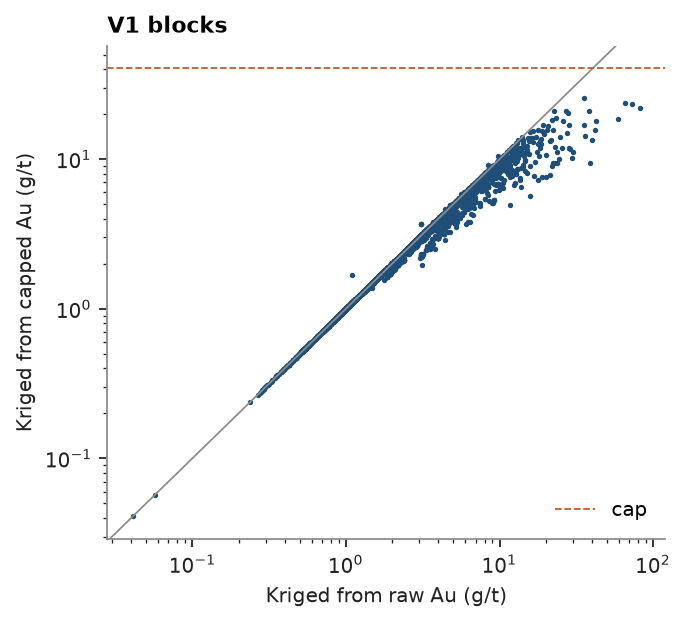
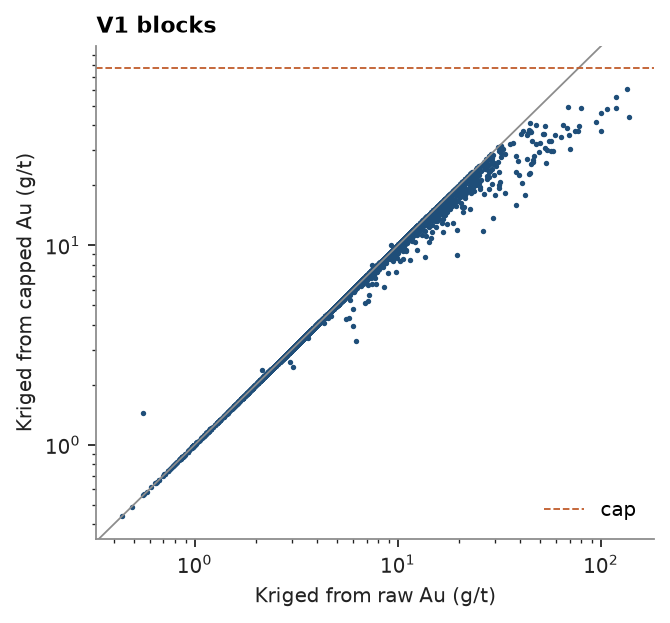
docs(examples): capping topic on the quartz veins of topic 8

diff --git a/examples/topics/69-capping-transform/example_69.py b/examples/topics/69-capping-transform/example_69.py
@@ -20,20 +20,19 @@ import numpy as np
 from common import ACCENT, GRAY, HIGHLIGHT, save
 
 # %% [markdown]
-# Four steep gold veins, drilled by diamond holes and sampled by channels in the drives. Assays are composited to
-# 1 m inside each vein, and cell declustering evens out the channels, which crowd the levels.
+# The quartz-vein composites of [topic 8](../08-top-cuts/README.md): gold in four veins, V1 to V4, sampled by
+# diamond holes and underground channels, composited to 1 m and declustered in 20 m cells.
 
 # %%
 data = cs.datasets.vein_gold_grade_control()
 intervals = cs.merge_intervals(data["assays"], data["lithology"])
-drillholes = cs.Drillholes(data["collars"], data["surveys"], intervals)
-composites = drillholes.composite(1.0, ["AU_GPT"], domain="VEIN")
-composites = composites.filter(np.asarray(composites["VEIN"]) != "")
-composites = composites.filter(~np.isnan(composites["AU_GPT"]))
-weights = cs.cell_declustering(composites, "AU_GPT", cell_size=20.0).weights
-composites = composites.with_column("w", weights)
-veins = sorted(set(composites["VEIN"]))
-print(f"{len(composites)} composites in {len(veins)} veins")
+holes = cs.Drillholes(data["collars"], data["surveys"], intervals)
+composites = holes.composite(1.0, ["AU_GPT"], domain="LITH", categories=["VEIN"])
+quartz = composites.filter((composites["LITH"] == "QV") & ~np.isnan(composites["AU_GPT"]))
+weights = cs.cell_declustering(quartz, "AU_GPT", cell_size=20.0).weights
+quartz = quartz.with_column("w", weights)
+veins = sorted(set(quartz["VEIN"]))
+print(f"{len(quartz)} composites in {len(veins)} veins")
 
 # %% [markdown]
 # ## One cap per vein
@@ -49,33 +48,34 @@ rules = {
     "CV 1.5": cs.Capping(cv=1.5),
 }
 for rule in rules.values():
-    rule.fit("AU_GPT", domain_column="VEIN", weights="w", data=composites)
+    rule.fit("AU_GPT", domain_column="VEIN", weights="w", data=quartz)
 print(f"{'vein':<6}" + "".join(f"{name:>11}{'metal (%)':>11}" for name in rules))
 for vein in veins:
     row = "".join(f"{r.caps_[vein]:>11.1f}{100 * r.metal_removed_[vein]:>11.2f}" for r in rules.values())
     print(f"{vein:<6}{row}")
 
 # %% [markdown]
-# The rules disagree most where the tail is longest. V1 and V2, sampled by thousands of channels with a lognormal
-# tail up to 500 g/t, lose 12 to 15 % of their metal at the P99; holding the loss to 5 % puts their caps near
-# 95 g/t. V4's P99 cuts a single composite and removes almost nothing. A CV target caps harder than either:
-# it pulls every cap down to 11 to 13 g/t, and V4, whose grades are spread rather than skewed, loses half its metal.
+# The rules disagree most where the tail is longest. V1 and V2 lose 10 and 14 % of their metal at the P99;
+# holding the loss to 5 % lifts their caps to 144 and 514 g/t, the latter just under V2's extreme channels. In the
+# small veins the P99 barely cuts: it is the maximum of V3. A CV of 1.5 caps V1 and V2 near 50 g/t and costs them
+# 15 to 18 % of their metal.
 #
-# ## The same numbers as the report
+# ## The same numbers as topic 8
 #
-# `capping_report`, used in [topic 13](../13-correlations/README.md) to compare statistics before and after a
-# given cap, reads the fitted caps directly. Its fraction of metal removed, `1 - mean_capped / mean`, is the
-# `metal_removed_` of the transform.
+# Topic 8 read each vein's declustered P99 off `describe_by` and passed it to `capping_report`. The quantile rule
+# fits the same caps, and its `metal_removed_` is the report's `1 - mean_capped / mean`.
 
 # %%
 capping = rules["P99"]
-report = cs.capping_report("AU_GPT", capping.caps_, domain_column="VEIN", weights="w", data=composites)
-columns = ["domain", "cap", "n_capped", "mean", "mean_capped", "cv", "cv_capped"]
-print(f"{'vein':<6}{'cap':>7}{'cut':>5}{'mean':>7}{'capped':>8}{'CV':>6}{'capped':>8}{'metal (%)':>11}")
-for name, c, n, mean, capped, cv, cv_capped in zip(*(report[k] for k in columns), strict=True):
+stats = cs.describe_by("AU_GPT", "VEIN", weights="w", quantiles=[0.99], data=quartz)
+top = dict(zip(stats["category"][:-1], stats["P99"][:-1], strict=True))
+report = cs.capping_report("AU_GPT", top, domain_column="VEIN", weights="w", data=quartz)
+removed = 1 - report["mean_capped"] / report["mean"]
+print(f"{'vein':<5}{'P99':>8}{'fitted cap':>12}{'report (%)':>12}{'fitted (%)':>12}")
+for k, vein in enumerate(report["domain"][:-1]):
     print(
-        f"{name:<6}{'' if np.isnan(c) else f'{c:.1f}':>7}{n:>5.0f}{mean:>7.2f}{capped:>8.2f}{cv:>6.2f}"
-        f"{cv_capped:>8.2f}{100 * (1 - capped / mean):>11.2f}"
+        f"{vein:<5}{top[vein]:>8.2f}{capping.caps_[vein]:>12.2f}"
+        f"{100 * removed[k]:>12.2f}{100 * capping.metal_removed_[vein]:>12.2f}"
     )
 
 # %% [markdown]
@@ -84,9 +84,9 @@ for name, c, n, mean, capped, cv, cv_capped in zip(*(report[k] for k in columns)
 # %%
 fig, axes = plt.subplots(1, len(veins), figsize=(11, 3.4), layout="constrained", sharey=True)
 for ax, vein in zip(axes, veins, strict=True):
-    keep = np.asarray(composites["VEIN"]) == vein
+    keep = quartz["VEIN"] == vein
     cs.plot.probability(
-        composites["AU_GPT"][keep],
+        quartz["AU_GPT"][keep],
         weights=weights[keep],
         log=True,
         cap=capping.caps_[vein],
@@ -105,11 +105,12 @@ save(fig, "probability")
 #
 # The capped grades feed the estimate as any other column. Blocks of 5 m inside the V1 solid are kriged from the
 # raw and from the capped composites of V1 with one variogram and search. The extreme channels no longer spread
-# their grade over their neighborhood: the blocks lose about as much metal as the declustered composites, 11 %,
-# almost all of it from blocks above 3 g/t, while the low-grade blocks stay on the diagonal.
+# their grade over their neighborhood: the richest blocks drop below the diagonal while the low-grade ones stay on
+# it. The blocks lose 6 % of their mean grade, against 10 % for the declustered composites: most blocks are
+# estimated from samples below the cap, which capping leaves unchanged.
 
 # %%
-v1 = composites.filter(np.asarray(composites["VEIN"]) == "V1")
+v1 = quartz.filter(quartz["VEIN"] == "V1")
 v1 = v1.with_column("AU_CAPPED", capping.transform("AU_GPT", domain_column="VEIN", data=v1))
 blocks = cs.BlockModel.from_extents(data["vein_V1"], size=(5.0, 5.0, 5.0))
 targets = blocks.centroids[data["vein_V1"].contains(blocks.centroids)]
@@ -139,13 +140,14 @@ save(fig, "kriged")
 # ## In a pipeline
 #
 # `Capping` has `fit`, `transform` and `fit_transform` like `NormalScore`, so the two chain: cap, then score, the
-# usual preparation for a Gaussian simulation. Fitted once, both apply to new samples: 50 and 500 g/t are both
-# capped, so they get the same score. The fitted caps round-trip through JSON and pickle.
+# usual preparation for a Gaussian simulation. Fitted once, both apply to new samples: 500 g/t is capped to
+# 77 g/t before scoring, so its score is that of the cap. The fitted caps round-trip through JSON and pickle.
 
 # %%
-capped = capping.fit_transform("AU_GPT", domain_column="VEIN", weights="w", data=v1)
+pipeline = cs.Capping(quantile=0.99)
+capped = pipeline.fit_transform("AU_GPT", domain_column="VEIN", weights="w", data=v1)
 scores = cs.NormalScore().fit(capped, weights=v1["w"])
 new = np.array([0.5, 5.0, 50.0, 500.0])
-print(scores.transform(capping.transform(new, domains=["V1"] * 4)).round(3))
-restored = cs.Capping.from_json(capping.to_json())
-print(restored.caps_ == capping.caps_)
+print(scores.transform(pipeline.transform(new, domains=["V1"] * 4)).round(3))
+restored = cs.Capping.from_json(pipeline.to_json())
+print(restored.caps_ == pipeline.caps_)

diff --git a/examples/topics/69-capping-transform/README.md b/examples/topics/69-capping-transform/README.md
@@ -15,28 +15,27 @@ from common import ACCENT, GRAY, HIGHLIGHT, save
 
 </details>
 
-Four steep gold veins, drilled by diamond holes and sampled by channels in the drives. Assays are composited to
-1 m inside each vein, and cell declustering evens out the channels, which crowd the levels.
+The quartz-vein composites of [topic 8](../08-top-cuts/README.md): gold in four veins, V1 to V4, sampled by
+diamond holes and underground channels, composited to 1 m and declustered in 20 m cells.
 
 <details><summary>Python</summary>
 
 ```python
 data = cs.datasets.vein_gold_grade_control()
 intervals = cs.merge_intervals(data["assays"], data["lithology"])
-drillholes = cs.Drillholes(data["collars"], data["surveys"], intervals)
-composites = drillholes.composite(1.0, ["AU_GPT"], domain="VEIN")
-composites = composites.filter(np.asarray(composites["VEIN"]) != "")
-composites = composites.filter(~np.isnan(composites["AU_GPT"]))
-weights = cs.cell_declustering(composites, "AU_GPT", cell_size=20.0).weights
-composites = composites.with_column("w", weights)
-veins = sorted(set(composites["VEIN"]))
-print(f"{len(composites)} composites in {len(veins)} veins")
+holes = cs.Drillholes(data["collars"], data["surveys"], intervals)
+composites = holes.composite(1.0, ["AU_GPT"], domain="LITH", categories=["VEIN"])
+quartz = composites.filter((composites["LITH"] == "QV") & ~np.isnan(composites["AU_GPT"]))
+weights = cs.cell_declustering(quartz, "AU_GPT", cell_size=20.0).weights
+quartz = quartz.with_column("w", weights)
+veins = sorted(set(quartz["VEIN"]))
+print(f"{len(quartz)} composites in {len(veins)} veins")
 ```
 
 </details>
 
 ```text
-13392 composites in 4 veins
+5826 composites in 4 veins
 ```
 
 ## One cap per vein
@@ -54,7 +53,7 @@ rules = {
     "CV 1.5": cs.Capping(cv=1.5),
 }
 for rule in rules.values():
-    rule.fit("AU_GPT", domain_column="VEIN", weights="w", data=composites)
+    rule.fit("AU_GPT", domain_column="VEIN", weights="w", data=quartz)
 print(f"{'vein':<6}" + "".join(f"{name:>11}{'metal (%)':>11}" for name in rules))
 for vein in veins:
     row = "".join(f"{r.caps_[vein]:>11.1f}{100 * r.metal_removed_[vein]:>11.2f}" for r in rules.values())
@@ -65,46 +64,46 @@ for vein in veins:
 
 ```text
 vein          P99  metal (%)  5 % metal  metal (%)     CV 1.5  metal (%)
-V1           40.4      12.03       91.9       5.00       13.4      31.14
-V2           25.9      14.72       97.0       5.00       11.7      26.29
-V3           17.1       8.41       31.5       5.00       11.8      12.97
-V4           63.9       0.07       47.2       5.00       10.9      52.06
+V1           77.2      10.11      144.1       5.00       49.1      15.36
+V2           71.0      14.46      513.7       5.00       51.1      17.59
+V3           67.5       0.00       50.3       5.00       56.5       3.20
+V4          186.8       0.37      107.3       5.00       96.7       8.08
 ```
 
-The rules disagree most where the tail is longest. V1 and V2, sampled by thousands of channels with a lognormal
-tail up to 500 g/t, lose 12 to 15 % of their metal at the P99; holding the loss to 5 % puts their caps near
-95 g/t. V4's P99 cuts a single composite and removes almost nothing. A CV target caps harder than either:
-it pulls every cap down to 11 to 13 g/t, and V4, whose grades are spread rather than skewed, loses half its metal.
+The rules disagree most where the tail is longest. V1 and V2 lose 10 and 14 % of their metal at the P99;
+holding the loss to 5 % lifts their caps to 144 and 514 g/t, the latter just under V2's extreme channels. In the
+small veins the P99 barely cuts: it is the maximum of V3. A CV of 1.5 caps V1 and V2 near 50 g/t and costs them
+15 to 18 % of their metal.
 
-## The same numbers as the report
+## The same numbers as topic 8
 
-`capping_report`, used in [topic 13](../13-correlations/README.md) to compare statistics before and after a
-given cap, reads the fitted caps directly. Its fraction of metal removed, `1 - mean_capped / mean`, is the
-`metal_removed_` of the transform.
+Topic 8 read each vein's declustered P99 off `describe_by` and passed it to `capping_report`. The quantile rule
+fits the same caps, and its `metal_removed_` is the report's `1 - mean_capped / mean`.
 
 <details><summary>Python</summary>
 
 ```python
 capping = rules["P99"]
-report = cs.capping_report("AU_GPT", capping.caps_, domain_column="VEIN", weights="w", data=composites)
-columns = ["domain", "cap", "n_capped", "mean", "mean_capped", "cv", "cv_capped"]
-print(f"{'vein':<6}{'cap':>7}{'cut':>5}{'mean':>7}{'capped':>8}{'CV':>6}{'capped':>8}{'metal (%)':>11}")
-for name, c, n, mean, capped, cv, cv_capped in zip(*(report[k] for k in columns), strict=True):
+stats = cs.describe_by("AU_GPT", "VEIN", weights="w", quantiles=[0.99], data=quartz)
+top = dict(zip(stats["category"][:-1], stats["P99"][:-1], strict=True))
+report = cs.capping_report("AU_GPT", top, domain_column="VEIN", weights="w", data=quartz)
+removed = 1 - report["mean_capped"] / report["mean"]
+print(f"{'vein':<5}{'P99':>8}{'fitted cap':>12}{'report (%)':>12}{'fitted (%)':>12}")
+for k, vein in enumerate(report["domain"][:-1]):
     print(
-        f"{name:<6}{'' if np.isnan(c) else f'{c:.1f}':>7}{n:>5.0f}{mean:>7.2f}{capped:>8.2f}{cv:>6.2f}"
-        f"{cv_capped:>8.2f}{100 * (1 - capped / mean):>11.2f}"
+        f"{vein:<5}{top[vein]:>8.2f}{capping.caps_[vein]:>12.2f}"
+        f"{100 * removed[k]:>12.2f}{100 * capping.metal_removed_[vein]:>12.2f}"
     )
 ```
 
 </details>
 
 ```text
-vein      cap  cut   mean  capped    CV  capped  metal (%)
-V1       40.4  119   3.44    3.03  3.31    2.08      12.03
-V2       25.9   68   2.48    2.12  3.93    1.91      14.72
-V3       17.1    4   1.77    1.62  2.42    1.68       8.41
-V4       63.9    1   5.36    5.36  2.22    2.22       0.07
-all            192   2.99    2.63  3.47    2.13      12.08
+vein      P99  fitted cap  report (%)  fitted (%)
+V1      77.18       77.18       10.11       10.11
+V2      70.97       70.97       14.46       14.46
+V3      67.53       67.53        0.00        0.00
+V4     186.79      186.79        0.37        0.37
 ```
 
 On a log-probability plot the dashed caps cut the last percent of each vein's tail.
@@ -114,9 +113,9 @@ On a log-probability plot the dashed caps cut the last percent of each vein's ta
 ```python
 fig, axes = plt.subplots(1, len(veins), figsize=(11, 3.4), layout="constrained", sharey=True)
 for ax, vein in zip(axes, veins, strict=True):
-    keep = np.asarray(composites["VEIN"]) == vein
+    keep = quartz["VEIN"] == vein
     cs.plot.probability(
-        composites["AU_GPT"][keep],
+        quartz["AU_GPT"][keep],
         weights=weights[keep],
         log=True,
         cap=capping.caps_[vein],
@@ -139,13 +138,14 @@ save(fig, "probability")
 
 The capped grades feed the estimate as any other column. Blocks of 5 m inside the V1 solid are kriged from the
 raw and from the capped composites of V1 with one variogram and search. The extreme channels no longer spread
-their grade over their neighborhood: the blocks lose about as much metal as the declustered composites, 11 %,
-almost all of it from blocks above 3 g/t, while the low-grade blocks stay on the diagonal.
+their grade over their neighborhood: the richest blocks drop below the diagonal while the low-grade ones stay on
+it. The blocks lose 6 % of their mean grade, against 10 % for the declustered composites: most blocks are
+estimated from samples below the cap, which capping leaves unchanged.
 
 <details><summary>Python</summary>
 
 ```python
-v1 = composites.filter(np.asarray(composites["VEIN"]) == "V1")
+v1 = quartz.filter(quartz["VEIN"] == "V1")
 v1 = v1.with_column("AU_CAPPED", capping.transform("AU_GPT", domain_column="VEIN", data=v1))
 blocks = cs.BlockModel.from_extents(data["vein_V1"], size=(5.0, 5.0, 5.0))
 targets = blocks.centroids[data["vein_V1"].contains(blocks.centroids)]
@@ -165,9 +165,9 @@ print(
 </details>
 
 ```text
-AU_GPT: 5231 blocks, mean 3.26 g/t
-AU_CAPPED: 5231 blocks, mean 2.90 g/t
-composites: 3.44 and 3.03 g/t
+AU_GPT: 5225 blocks, mean 7.74 g/t
+AU_CAPPED: 5225 blocks, mean 7.28 g/t
+composites: 8.30 and 7.46 g/t
 ```
 
 <details><summary>Python</summary>
@@ -190,24 +190,25 @@ save(fig, "kriged")
 ## In a pipeline
 
 `Capping` has `fit`, `transform` and `fit_transform` like `NormalScore`, so the two chain: cap, then score, the
-usual preparation for a Gaussian simulation. Fitted once, both apply to new samples: 50 and 500 g/t are both
-capped, so they get the same score. The fitted caps round-trip through JSON and pickle.
+usual preparation for a Gaussian simulation. Fitted once, both apply to new samples: 500 g/t is capped to
+77 g/t before scoring, so its score is that of the cap. The fitted caps round-trip through JSON and pickle.
 
 <details><summary>Python</summary>
 
 ```python
-capped = capping.fit_transform("AU_GPT", domain_column="VEIN", weights="w", data=v1)
+pipeline = cs.Capping(quantile=0.99)
+capped = pipeline.fit_transform("AU_GPT", domain_column="VEIN", weights="w", data=v1)
 scores = cs.NormalScore().fit(capped, weights=v1["w"])
 new = np.array([0.5, 5.0, 50.0, 500.0])
-print(scores.transform(capping.transform(new, domains=["V1"] * 4)).round(3))
-restored = cs.Capping.from_json(capping.to_json())
-print(restored.caps_ == capping.caps_)
+print(scores.transform(pipeline.transform(new, domains=["V1"] * 4)).round(3))
+restored = cs.Capping.from_json(pipeline.to_json())
+print(restored.caps_ == pipeline.caps_)
 ```
 
 </details>
 
 ```text
-[-0.292  1.047  2.603  2.603]
+[-1.296  0.385  2.011  2.721]
 True
 ```
 

diff --git a/examples/README.md b/examples/README.md
@@ -92,6 +92,7 @@ Tutorials follow one deposit from data to a result; topics show one feature each
 | 66 | [Result plots](topics/66-result-plots/README.md) | Walker Lake, Nickel laterite profile | `experimental_variogram`, `Variogram`, `Search`, `OrdinaryKriging`, `plot.cross_validation`, `MultipleIndicatorKriging`, `BlockModel`, `BlockKriging`, `cell_declustering`, `grade_tonnage`, `compare_models`, `plot.grade_tonnage`, `merge_intervals`, `Drillholes`, `contact`, `plot.contact` |
 | 67 | [Variogram sets](topics/67-variogram-sets/README.md) | Jura, Walker Lake | `experimental_variograms`, `Coregionalization`, `plot.variograms`, `BlockModel`, `experimental_variogram` |
 | 68 | [Multigaussian kriging](topics/68-multigaussian-kriging/README.md) | Walker Lake | `Variogram`, `cell_declustering`, `NormalScore`, `despike`, `experimental_variogram`, `BlockModel`, `MultigaussianKriging`, `Search`, `plot.scatter` |
+| 69 | [Capping transform](topics/69-capping-transform/README.md) | Vein gold grade control | `merge_intervals`, `Drillholes`, `cell_declustering`, `Capping`, `describe_by`, `capping_report`, `plot.probability`, `BlockModel`, `experimental_variogram`, `Search`, `OrdinaryKriging`, `NormalScore` |
 
 Each page alternates text, collapsed Python and its results. `mise run examples` reruns every script
 and rewrites the pages; `cs.datasets` downloads the data once and caches it. `render.py --index` writes this file.
